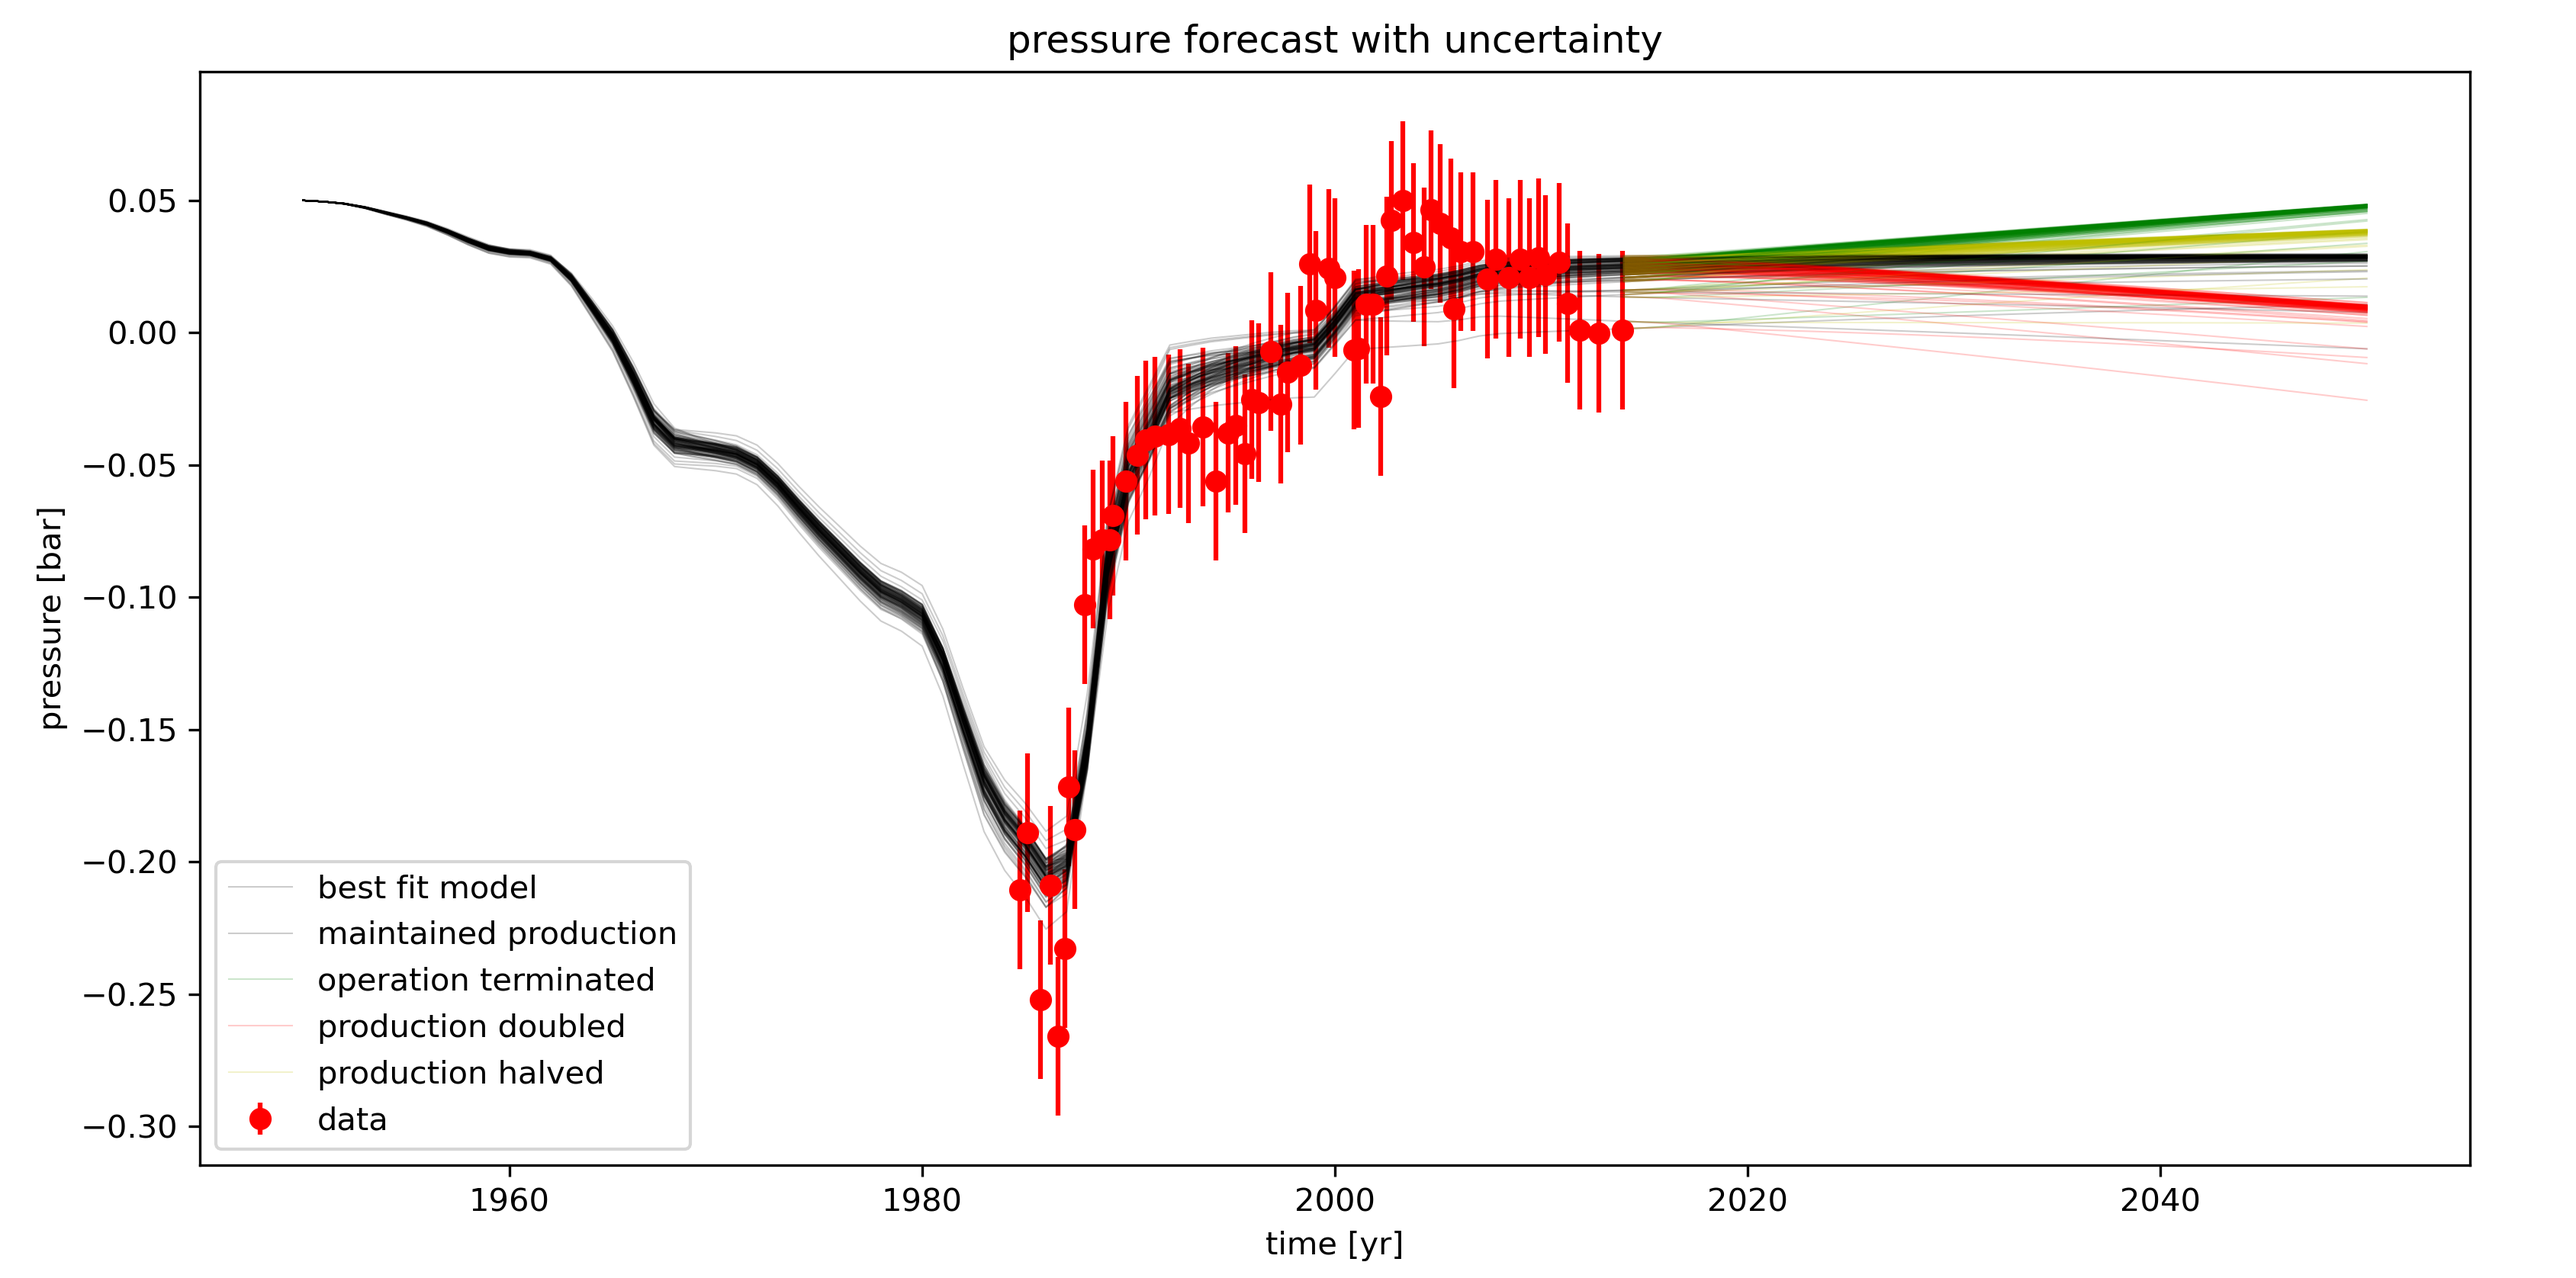
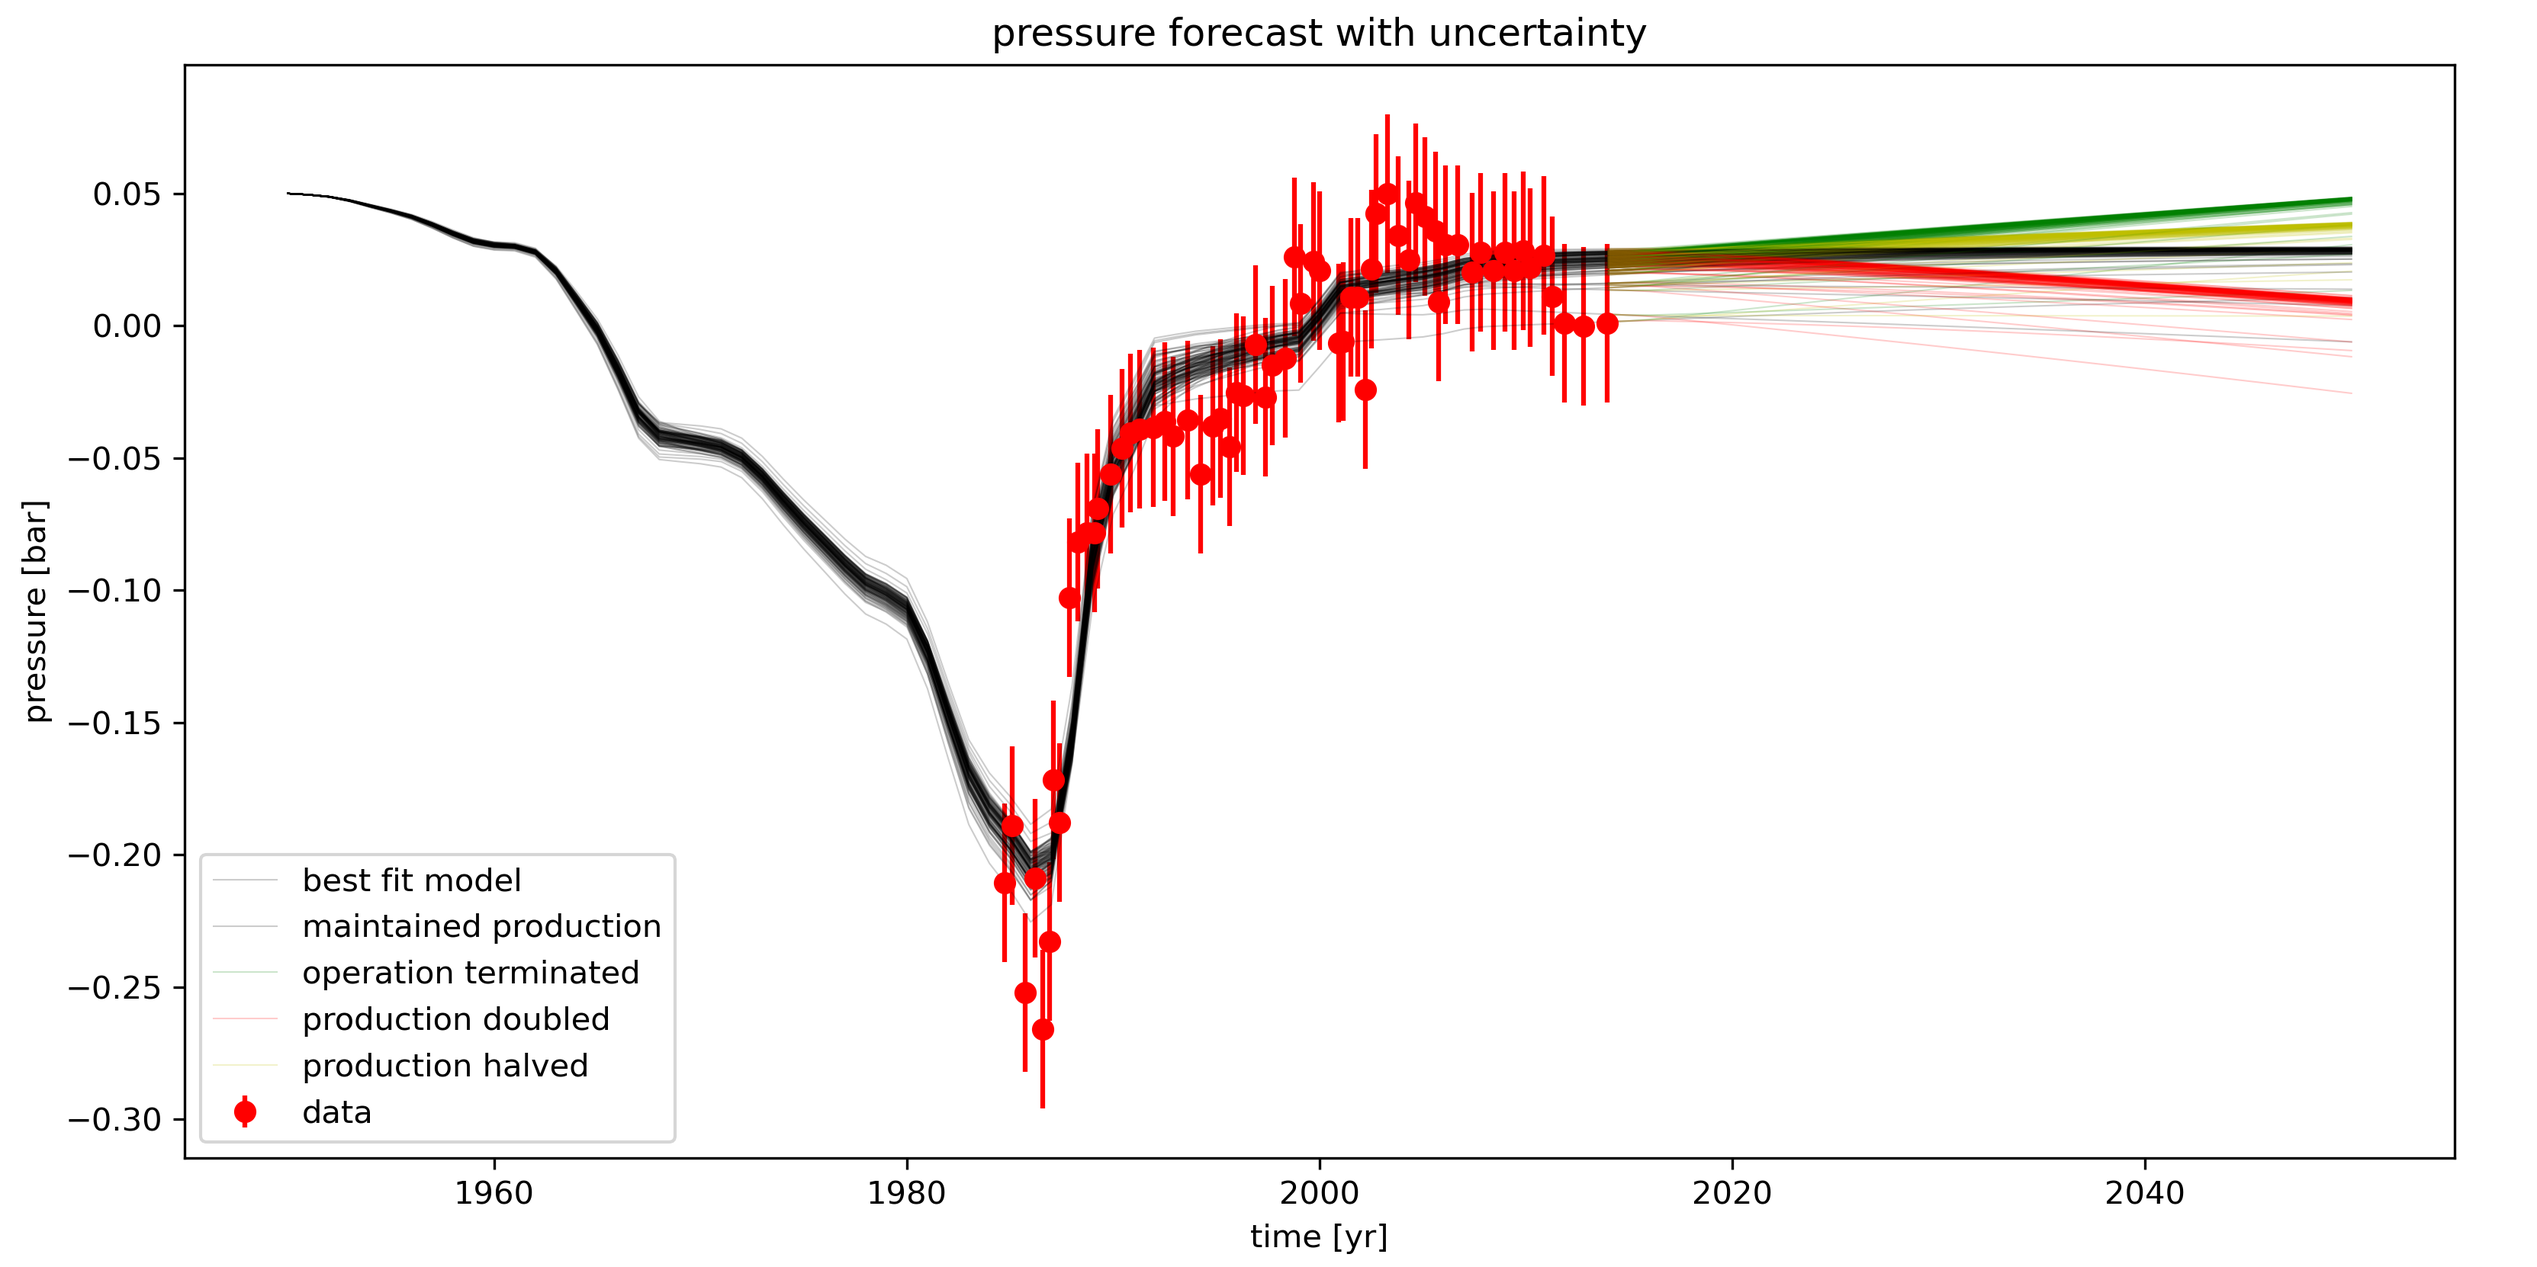
diagrams fixed

diff --git a/code/main.py b/code/main.py
@@ -5,19 +5,19 @@ from matplotlib import pyplot as plt
 import numpy as np
 
 # plotting the given data
-save_figure = False   # if this is true all plots will save to disk instead of print
+save_figure = False   # if this is true all plots will save to disk instead of print. 
 
-given1 = False      # plotting the water level and total production rate (with reinjection rate considered).
-given2 = False      # conversion from water level to pressure.
-given3 = False      # plotting the temperature and total production rate (with reinjection rate considered).
-firstfit = False    #
+given1 = True      # plotting the water level and total production rate (with reinjection rate considered).
+given2 = True      # conversion from water level to pressure.
+given3 = True      # plotting the temperature and total production rate (with reinjection rate considered).
+firstfit = True    # plot initial pressure and temperature bestfit LPM ODE models. 
 bestfit = True      # plot pressure and temperature bestfit LPM ODE models. MUST REMAIN TRUE TO RUN PLOTS THAT FOLLOWS.# plot pressure and temperature forecast to time2, as well as respective change rate forecast. MUST REMAIN TRUE TO RUN PLOTS THAT FOLLOWS.
-misfit = False      # plot quantified misfit of the model to data.
+misfit = True      # plot quantified misfit of the model to data.
 validation = True   # plot benchmarking and convergence test.
-forecast = True     #
+forecast = True     # plot of forecast. 
 
-inversion = False   #
-uncertainty = False # plot of pressure and temperature forecast uncertainty.
+inversion = True 
+uncertainty = True # plot of pressure and temperature forecast uncertainty.
 
 # plots that are used multiple times
 tq1, pr1 = np.genfromtxt('gr_q1.txt', delimiter=',', skip_header=1).T  # production rate 1 (gr_q1 data)
@@ -201,9 +201,9 @@ if misfit:
 
     # plotting of data against model
     fig, axes = plt.subplots(1, 2)
-    ln1 = axes[0].plot(twl, p_plot, 'bo', marker='o', label='data')
+    ln1 = axes[0].plot(twl, p_plot/100000, 'bo', marker='o', label='data')
     px_plot = np.interp(twl, time_fit, pressure_fit)
-    ln2 = axes[0].plot(time_fit, pressure_fit, 'k-', label='ap = {a:.3f}\nbp = {b:.3f}\ncp = {c:.3f}'.format(a=para_p[0], b=para_p[1], c=0))
+    ln2 = axes[0].plot(time_fit, pressure_fit/100000, 'k-', label='ap = {a:.3f}\nbp = {b:.3f}\ncp = {c:.3f}'.format(a=para_p[0], b=para_p[1], c=0))
     lns = ln1 + ln2
     labs = [l.get_label() for l in lns]
     axes[0].legend(lns, labs, loc=2)
@@ -335,9 +335,9 @@ if misfit:
 
     # plotting of data against model
     fig, axes = plt.subplots(1, 2)
-    ln1 = axes[0].plot(twl, p_plot, 'bo', marker='o', label='data')
+    ln1 = axes[0].plot(twl, p_plot/100000, 'bo', marker='o', label='data')
     px_plot = np.interp(twl, time_fit, pressure_fit)
-    ln2 = axes[0].plot(time_fit, pressure_fit, 'k-', label='ap = {a:.3f}\nbp = {b:.3f}\ncp = {c:.3f}'.format(a=para_p[0], b=para_p[1], c=para_p[2]))
+    ln2 = axes[0].plot(time_fit, pressure_fit/100000, 'k-', label='ap = {a:.3f}\nbp = {b:.3f}\ncp = {c:.3f}'.format(a=para_p[0], b=para_p[1], c=para_p[2]))
     lns = ln1 + ln2
     labs = [l.get_label() for l in lns]
     axes[0].legend(lns, labs, loc=2)
@@ -657,7 +657,7 @@ if forecast:
     # plotting formatting
     lns = ln0 + ln1 + ln2 + ln3 + ln4
     labs = [l.get_label() for l in lns]
-    ax2.legend(lns, labs, loc=4)
+    ax2.legend(lns, labs, loc='upper right')
     ax2.set_ylabel('temperature rate of change [degC]')
     ax2.set_xlabel('time [yr]')
     ax2.set_title('temperature rate of change: what-if scenarios')
